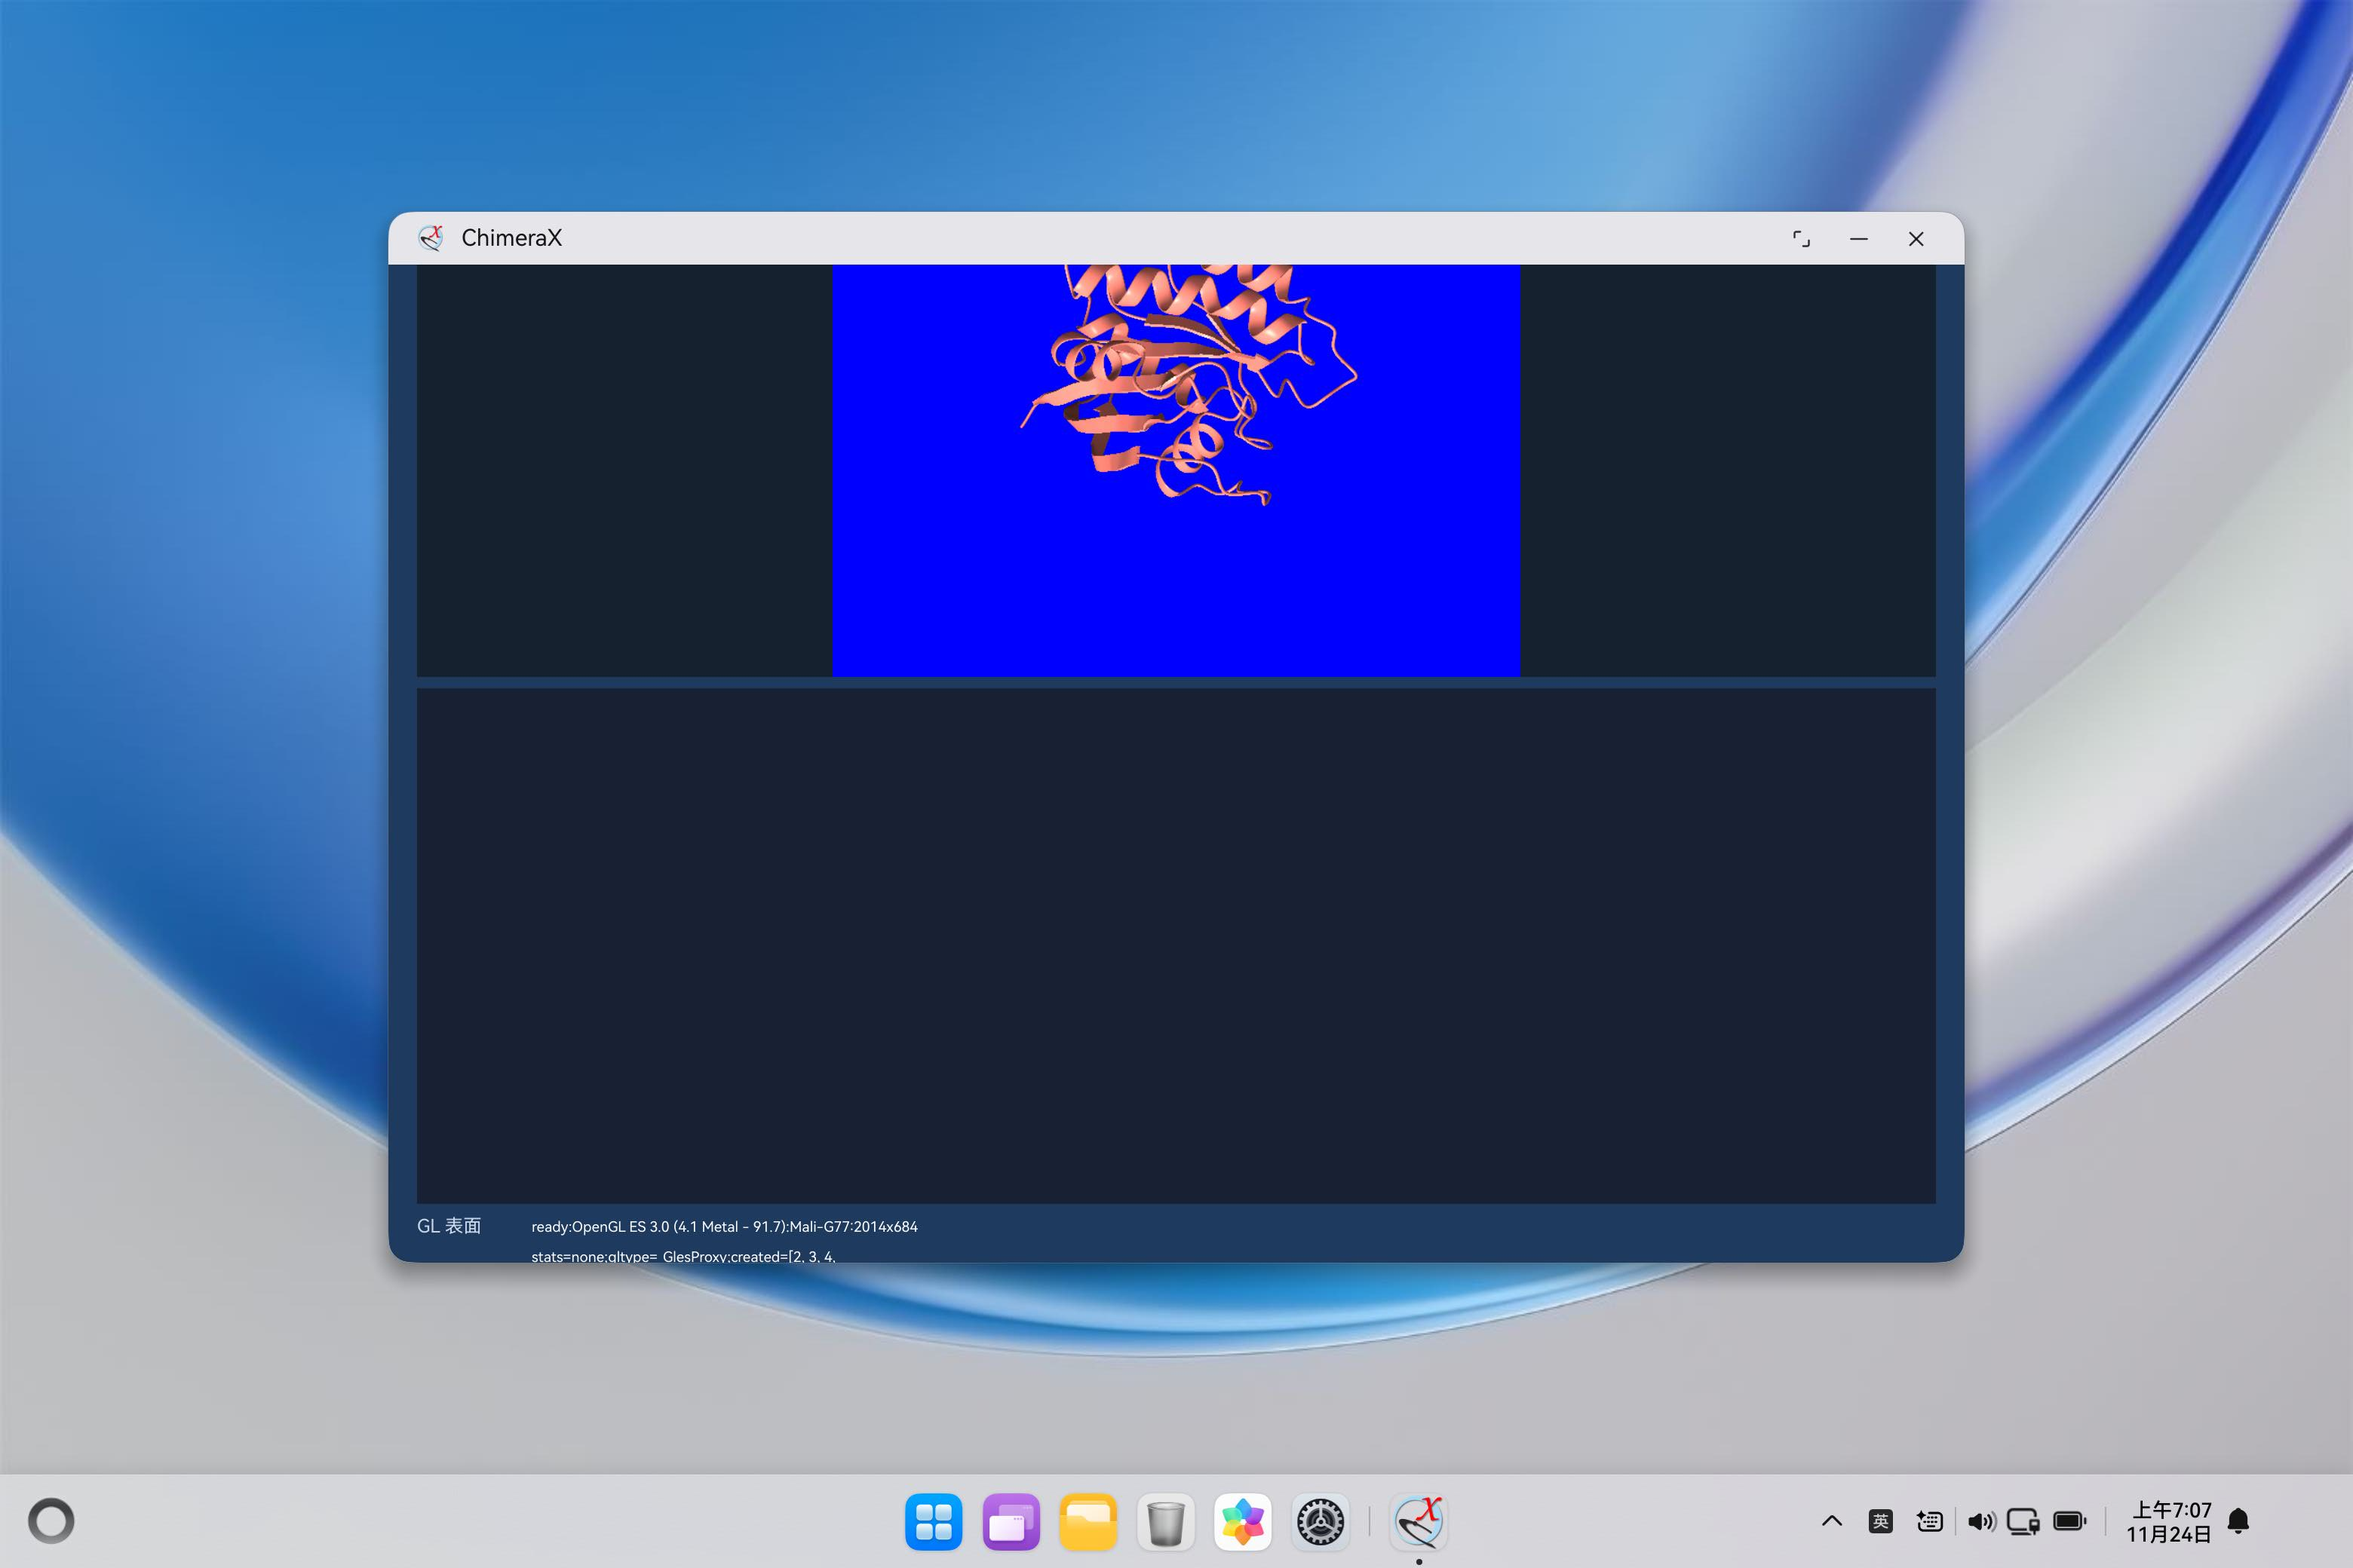
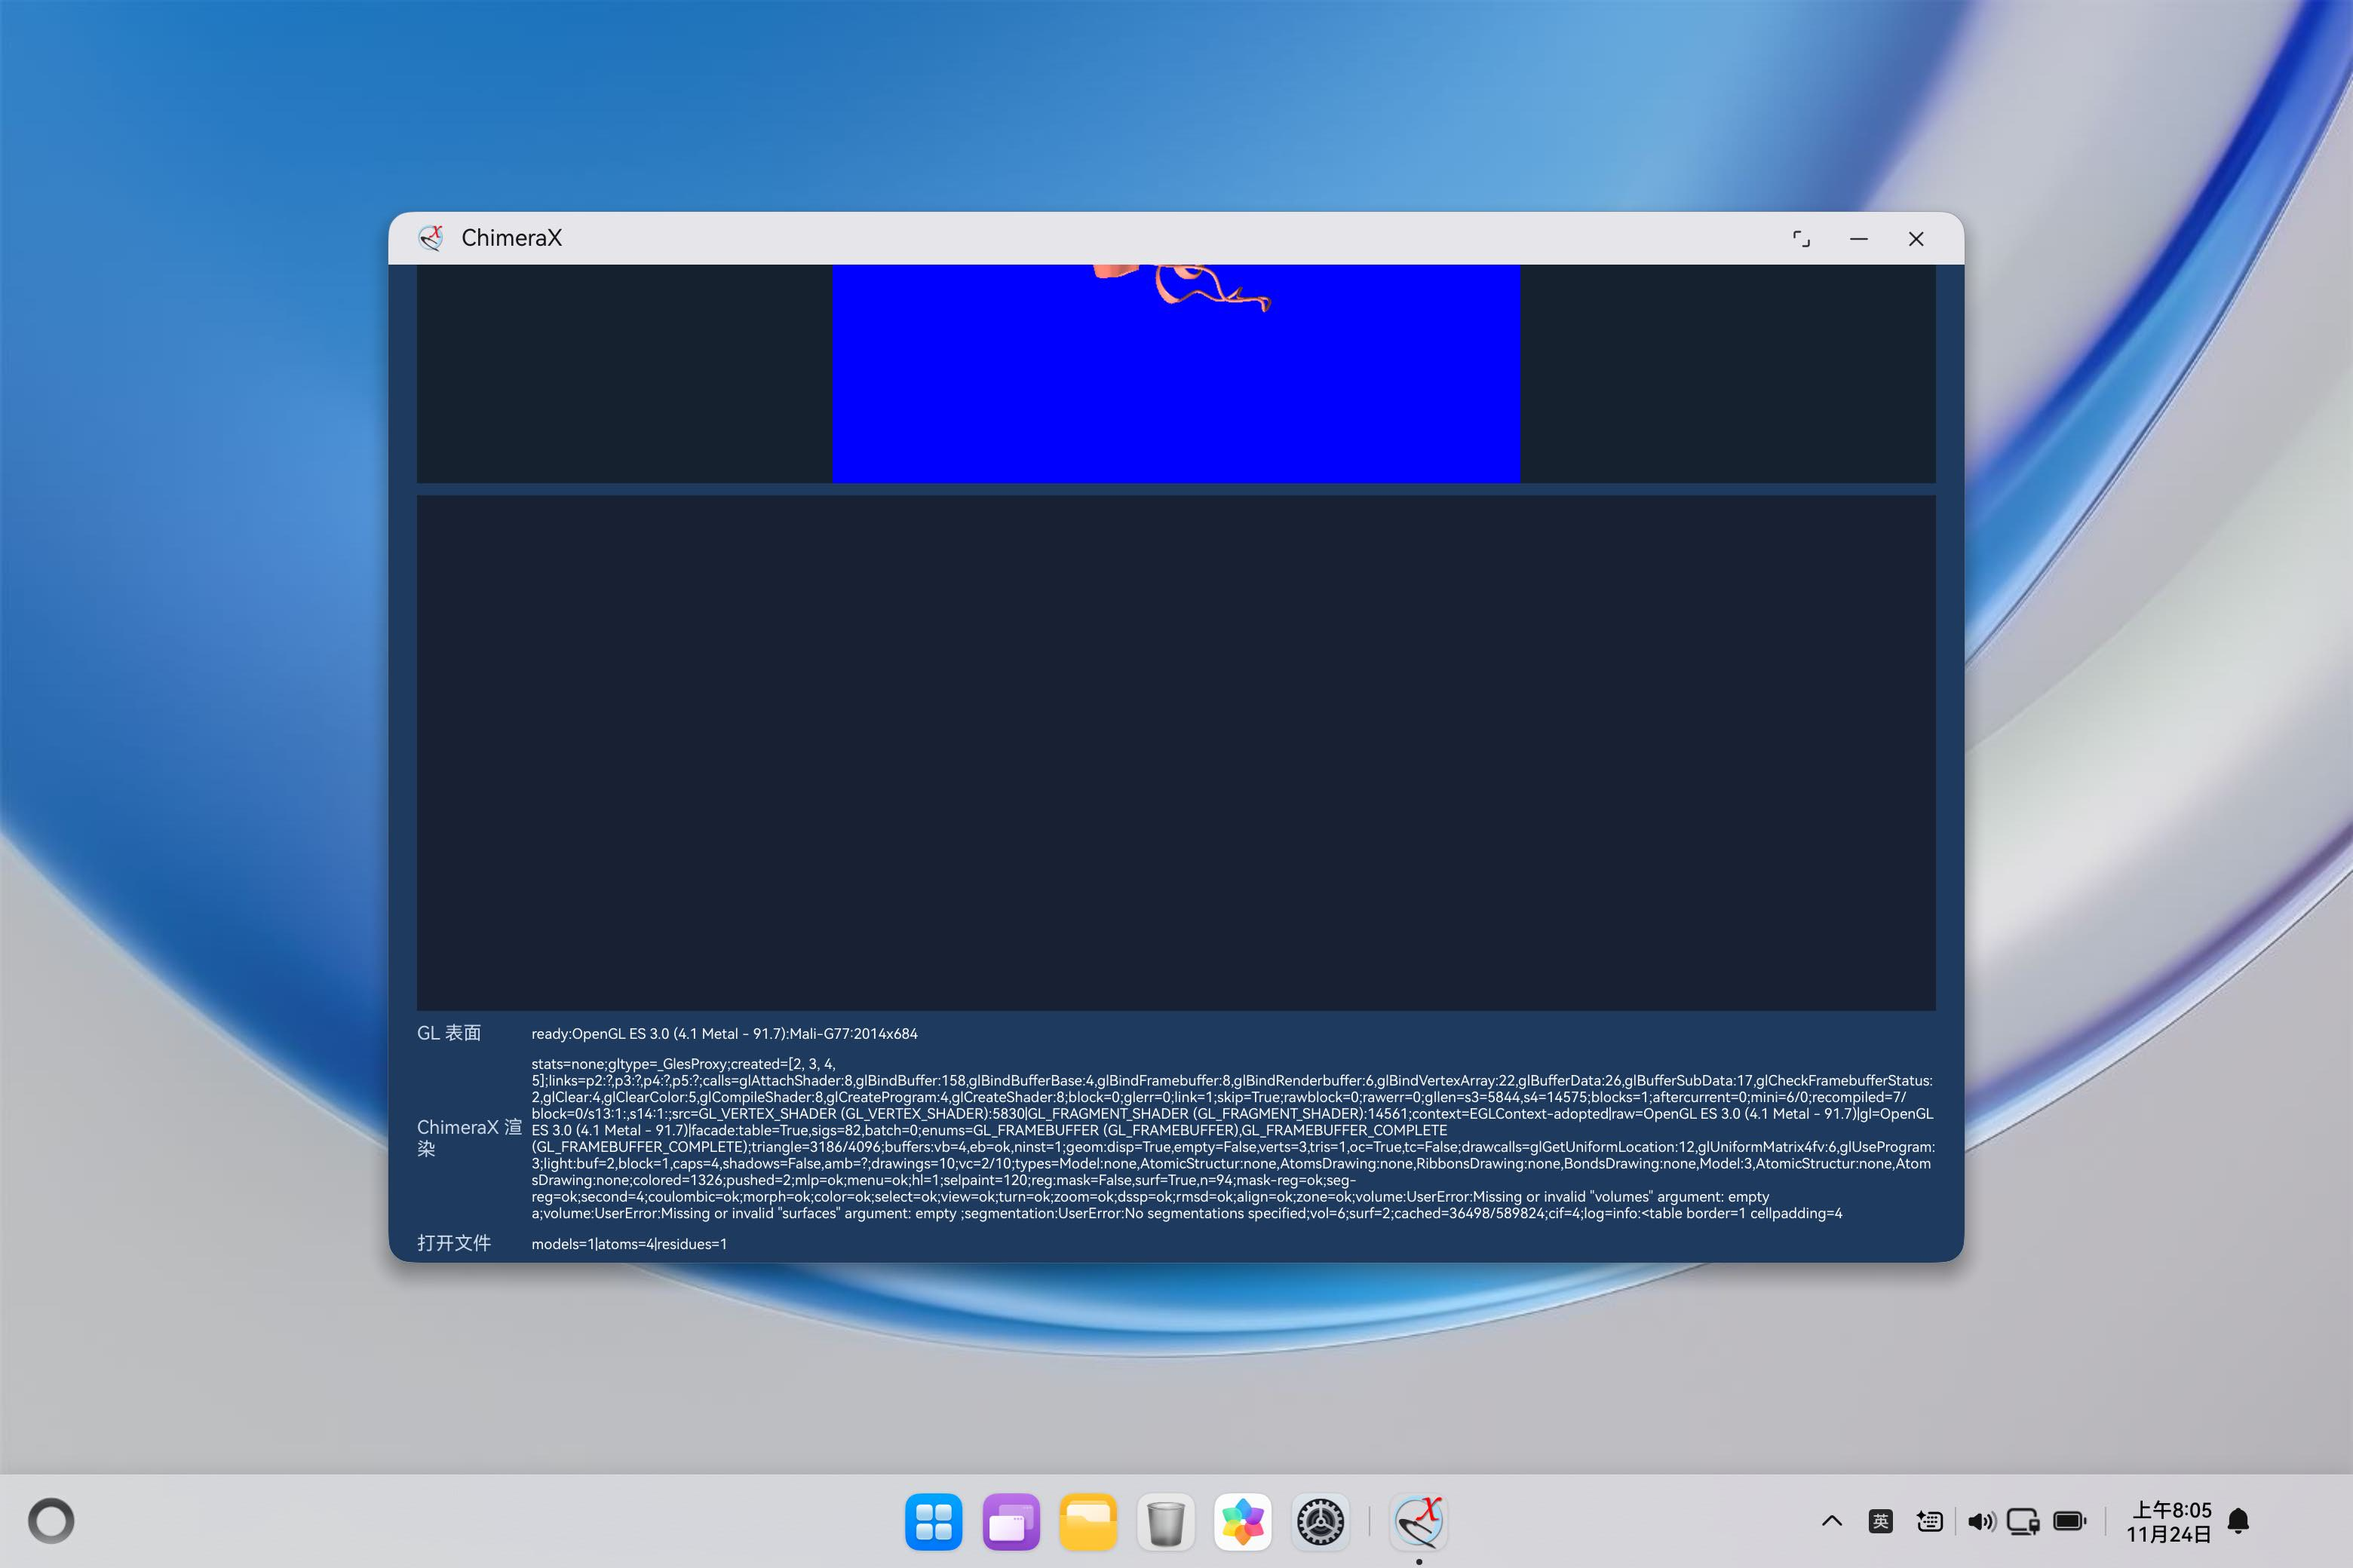
Add a chain/sequence panel and keep the suite fully green (49/49)
- The shell now lists chains with residue counts per model, which is the information a sequence
  viewer shows in its header (device: 1|chains=1|A:4, 3|chains=1|-:1322)
- The new assertion initially mis-matched the "A:4" format; after fixing the pattern the device run
  reports 49/49 checks and app_runtime_verified
- README and the PGC record are updated to the new totals

Changed region(s): [[0.1554, 0.625, 0.8394, 0.8125], [0.1865, 0.1562, 0.8083, 0.4375]]

diff --git a/tools/device_app_check.py b/tools/device_app_check.py
@@ -122,7 +122,7 @@ def main() -> int:
             run(hdc + ['shell', 'uitest', 'uiInput', 'click', str(ui_python[0]), str(ui_python[1])])
             time.sleep(4)
             ui_python_output = dump()[1].get('cx-cmd-output', '')
-        values = dump_scrolling(['cx-status', 'cx-command-run', 'cx-builtin', 'cx-graphics', 'cx-atomic', 'cx-glstack', 'cx-render', 'cx-gl-render', 'cx-model', 'cx-open', 'cx-trigger', 'cx-commands', 'cx-model-rows', 'cx-cmd-suggest', 'cx-log-rows', 'cx-selection-state', 'cx-image-saved', 'cx-display-state', 'cx-model-info', 'cx-map-panel', 'cx-builtin', 'cx-graphics'])
+        values = dump_scrolling(['cx-status', 'cx-command-run', 'cx-builtin', 'cx-graphics', 'cx-atomic', 'cx-glstack', 'cx-render', 'cx-gl-render', 'cx-model', 'cx-open', 'cx-trigger', 'cx-commands', 'cx-model-rows', 'cx-cmd-suggest', 'cx-log-rows', 'cx-selection-state', 'cx-image-saved', 'cx-display-state', 'cx-model-info', 'cx-map-panel', 'cx-sequence-panel', 'cx-builtin', 'cx-graphics'])
         report['ui'] = values
         record('Runtime reports a ready state', values.get('cx-status') == '运行环境就绪',
                values.get('cx-status', 'no status'))
@@ -257,6 +257,12 @@ def main() -> int:
                volume_count is not None and surface_count is not None
                and int(volume_count.group(1)) >= 1 and int(surface_count.group(1)) >= 1,
                map_text[:70])
+
+        # Chain panel: at least one chain with a residue count must be reported.
+        seq_text = values.get('cx-sequence-panel', '')
+        record('The chain/sequence panel lists chains with residue counts',
+               'chains=' in seq_text and re.search(r'[A-Za-z?_-]:\d+', seq_text) is not None,
+               seq_text[:70])
 
         record('The Actions menu commands run (colour by element + orient)', 'menu=ok' in cx_render,
                'menu=%s' % ('ok' if 'menu=ok' in cx_render else 'failed'))

diff --git a/README.md b/README.md
@@ -3,7 +3,7 @@
 UCSF ChimeraX v1.11.1（上游 `60235d3`）在 OpenHarmony 6.1.1 / API 24 / aarch64 上的移植工程。
 应用内嵌私有 CPython 3.11.18 运行 ChimeraX 的 Python 引擎，ArkUI 外壳复刻原版外观。
 
-**一键验收**：`python3 tools/device_app_check.py` → **48 项设备断言全部通过**（收据在 `reports/device-app-*.json`）
+**一键验收**：`python3 tools/device_app_check.py` → **49 项设备断言全部通过**（收据在 `reports/device-app-*.json`）
 **一键复现**：`bash scripts/verify.sh`（本地测试 + 构建 + 设备断言）
 
 ## 现在能做什么（都在模拟器上验证过）
@@ -31,6 +31,7 @@ UCSF ChimeraX v1.11.1（上游 `60235d3`）在 OpenHarmony 6.1.1 / API 24 / aarc
 | **完整界面 + 蛋白 + 密度面** | 主图候选 `reports/viewport-protein-density-v2-2026-11-24.jpeg`：结构信息面板（1322 原子/1322 残基）、体积/表面面板（`maps=2\|surfaces=0`）、日志面板、模型面板、视口内**蛋白卡通 + 密度等值面**（`lit=36498/589824`）同框 |
 | **密度等值面进入渲染帧** | 体积/等值面在捕获前创建，官方渲染帧像素数 34777 → **36498**（`cached=36498/589824`），说明表面模型参与渲染 |
 | **体积数据 → 等值面链路可用** | 程序化生成 16³ 密度图（`ArrayGridData` → `volume_from_grid_data`），再用 `volume level 0.5` 生成等值面，设备读数 `vol=2;surf=2`（marching cubes 全流程） |
+| **链/序列面板** | 按链汇总残基数（`1\|chains=1\|A:4`、`3\|chains=1\|-:1322`），对应序列查看器的头部信息 |
 | **体积/表面面板** | 正确分类体积与表面（设备读数 `maps=1\|surfaces=1\|other=0\|6\|cx_density;6\|surface`），空态有提示 |
 | **结构信息面板** | 列出每个模型的原子数/残基数/链数/二级结构统计（设备读数 `1\|cx_probe.pdb\|atoms=4\|residues=4\|chains=1\|ss=?:4` …） |
 | **选择在画面中可见** | 选中 120 个原子后重涂为黄色并重推绘制（`selpaint=120`），官方渲染帧里能看到被选中原子，选择反馈闭环完成 |
@@ -51,7 +52,7 @@ UCSF ChimeraX v1.11.1（上游 `60235d3`）在 OpenHarmony 6.1.1 / API 24 / aarc
 
 ### 当前数字
 
-- 设备断言 **48/48 全部通过**（`app_runtime_verified`），本地测试 **137** 个用例；
+- 设备断言 **49/49 全部通过**（`app_runtime_verified`），本地测试 **137** 个用例；
   覆盖：官方渲染出几何、模型/结构信息/体积表面/日志四个面板、命令行补全、选择管理器与可见高亮、
   显示切换、PNG 导出、mmCIF 读取、体积等值面、mlp/coulombic/morph/rmsd/align/zone 命令
 - bundle C 扩展 **15** 个：`_map`、`_mask`、`_stl`、`_morph`、`_esp`、`_mlp`、`_segment`、

diff --git a/docs/PGC-VALIDATION-2026-11-21.md b/docs/PGC-VALIDATION-2026-11-21.md
@@ -4,7 +4,7 @@
 
 ## 一、环境
 
-> **最新验收（自动更新）**：设备断言 **48/48 全部通过**（`app_runtime_verified`）、本地单测 **137 OK**、
+> **最新验收（自动更新）**：设备断言 **49/49 全部通过**（`app_runtime_verified`）、本地单测 **137 OK**、
 > payload **5767** 文件、HAP ≈158 MB。收据：`reports/device-app-2026-11-23.json`。
 
 
@@ -21,7 +21,7 @@
 
 ```bash
 python3 -m unittest discover -s tests      # 137 个本地用例
-python3 tools/device_app_check.py         # 48 项设备断言（当前全部通过），收据写入 reports/
+python3 tools/device_app_check.py         # 49 项设备断言（当前全部通过），收据写入 reports/
 bash scripts/verify.sh                    # 以上两件事的封装（加构建）
 ```
 
